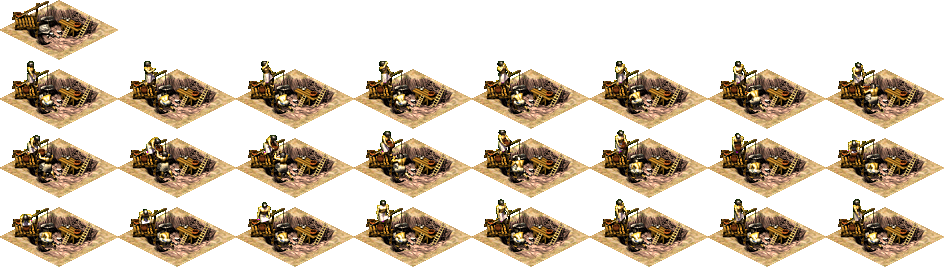
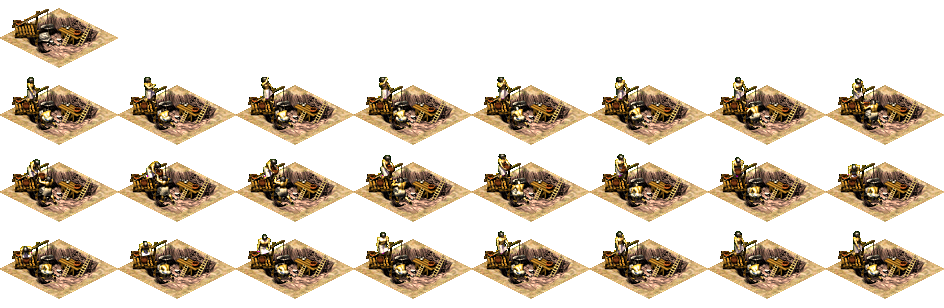
Work for the day -- resource buildings, farming buildings

Changed region(s): [[0.0, 0.2097, 1.0, 0.7491], [0.0, 0.7491, 1.0, 1.0], [0.0, 0.0, 0.1229, 0.1798]]

diff --git a/resourceBuild.js b/resourceBuild.js
@@ -1,14 +1,22 @@
-function resourceBuild(img, game, x, y, bWidth, bHeight) {
-    this.img = img;
+resSpeed = .10; 
+
+function resourceBuild(game, x, y, bWidth, bHeight) {
+    this.game = game;
+    this.img = null;
     this.bWidth = bWidth;
     this.bHeight = bHeight;
     this.openAnim = null;
     this.closedAnim = null;
     this.currAnim = null;
+    this.renderX = 0;
+    this.renderY = 0;
     this.numEmployed = 0;
     this.numEmpNeeded = null;
     this.placeCost = null;
-    this.storage = [];
+    this.resType = "";
+    this.prodTime = 0;
+    this.buffer = { x: x - 1, y: y - 1, width: bWidth + 1, height: bHeight + 1 };
+    this.roadTiles = [];
     Entity.call(this, game, x, y);
 }
 
@@ -16,8 +24,69 @@ resourceBuild.prototype = new Entity();
 resourceBuild.prototype.constructor = resourceBuild;
 
 resourceBuild.prototype.update = function () {
- /*detect that someone has come by. Determine
-    purchasing/taking or storage/retrieval.
-    may not even require that? update storage counts and remove money as needed.
-    */
+    this.roadTiles = findRoad(this.buffer);
+
+    if (this.numEmployed < this.numEmpNeeded) {
+        this.currAnim = this.closedAnim;
+
+    } else {
+        this.currAnim = this.openAnim;
+        if (this.game.timer.gameTime - this.workTime >= this.prodTime) {
+            this.workTime = this.game.timer.gameTime;
+            //Generate a walker to deliver the resource accordingly.
+        }
+    }
+    Entity.prototype.update.call(this);
 }
+
+resourceBuild.prototype.draw = function (ctx) {
+    pt1 = this.game.twodtoisoX(this.x, this.y) - this.renderX;
+    pt2 = this.game.twodtoisoY(this.x, this.y) - this.renderY;
+    ctx.fillRect(pt1, pt2, 5, 5);
+    this.currAnim.drawFrame(this.game.clockTick, ctx, pt1, pt2);
+    Entity.prototype.draw.call(this);
+} 
+
+function goldMine(game, x, y, bWidth, bHeight) {
+    resourceBuild.call(this, game, x, y, bWidth, bHeight);
+    this.img = ASSET_MANAGER.getAsset('./img/GoldMine.png');
+    this.workTime = game.timer.gameTime;
+    this.closedAnim = new Animation(this.img, 0, 0, 118, 63, 1, resSpeed, 1, true);
+    this.openAnim = new Animation(this.img, 0, 1, 118, 63, 9, resSpeed, 17, true);
+    this.currAnim = this.closedAnim;
+    this.resType = "gold";
+    this.prodTime = 30;
+    this.numEmpNeeded = 16;
+    this.renderX = 25;
+    this.renderY = 5;
+    this.placeCost = 75;
+    //FORTESTING
+    this.numEmployed = 16;
+
+}
+
+goldMine.prototype = new resourceBuild();
+goldMine.prototype.constructor = goldMine;
+
+function clayPit(game, x, y, bWidth, bHeight){
+    resourceBuild.call(this, game, x, y, bWidth, bHeight);
+    this.img = ASSET_MANAGER.getAsset('./img/ClayThingy.png');
+    this.workTime = game.timer.gameTime;
+    this.closedAnim = new Animation(this.img, 0, 0, 118, 77, 1, resSpeed, 1, true);
+    this.openAnim = new Animation(this.img, 0, 1, 118, 77, 8, resSpeed, 24, true);
+    this.currAnim = this.closedAnim;
+    this.resType = "clay";
+    this.prodTime = 20;
+    this.numEmpNeeded = 14;
+    this.renderX = 29;
+    this.renderY = 9;
+    this.placeCost = 20;
+    //FOR TESTING
+    this.numEmployed = 14;
+
+}
+
+clayPit.prototype = new resourceBuild();
+clayPit.prototype.constructor = clayPit;
+
+//Possibly Hunting Lodge? Extend the update behavior to deal with returning hunters. 

diff --git a/farming.js b/farming.js
@@ -26,11 +26,12 @@ function farming(img, game, x, y) {
 
 }
 
-farming.prototype = new Entity();
+farming.prototype = Object.create(Entity.prototype);
 farming.prototype.constructor = farming;
 
 farming.prototype.update = function () {
     this.roadTiles = findRoad(this.buffer);
+
     this.growTime += this.game.clockTick;
     harvestCheck = Math.floor(this.game.timer.gameTime) % this.harvestTime;
 
@@ -56,9 +57,9 @@ farming.prototype.draw = function (ctx) {
     this.animHarvest.drawFrame(this.game.clockTick, ctx, pt1, pt2);
     Entity.prototype.draw.call(this);
 }
-var found = [];
-farming.prototype.genWalker = function () {
 
+farming.prototype.genWalker = function () {
+    found = [];
     //for each granary building on the map, if there is one:
     for (let i = 0; i < this.game.industries.length; i++) { // just a test
         //check Granary has capacity to cut down a bit on calculations 
@@ -72,7 +73,7 @@ farming.prototype.genWalker = function () {
                         return false;
                     } else {
                         //console.log("gen walkers: path");
-                        found.push([that.roadTiles[j][0], that.roadTiles[j][1], indie.roadTiles[k][0], indie.roadTiles[k][1]]);
+                        found = [that.roadTiles[j][0], that.roadTiles[j][1], indie.roadTiles[k][0], indie.roadTiles[k][1]];
                         return true;
                     }
 
@@ -81,16 +82,21 @@ farming.prototype.genWalker = function () {
             }
         }
     }
-    //if (found.length > 0) {
-    //    var gcm = new grCartMan(this.game, ASSET_MANAGER.getAsset('./img/grainCartMan.png'), walkerMap, found[0][0], found[0][1]);
-    //    gcm.destX = found[0][2];
-    //    gcm.destY = found[0][3];
-    //    this.game.addWalker(gcm);
+    if (found.length > 0) {
+        //var gcm = new grCartMan(this.game, ASSET_MANAGER.getAsset('./img/grainCartMan.png'), walkerMap, found[0][0], found[0][1]);
+        //gcm.destX = found[0][2];
+        //gcm.destY = found[0][3];
+        //var gcm = new grCartMan(this.game, ASSET_MANAGER.getAsset('./img/grainCartMan.png'), walkerMap, 10, 9);
+        //gcm.destX = 2;
+        //gcm.destY = 2;
+        //this.game.addWalker(gcm);
+        //console.log(gcm);
+        //this.game.addWalker(gcm);
 
-    //} else {
-    //    console.log("No path to that buildin'")
-    //}
-    
+    } else {
+        console.log("No path to that buildin'")
+    }
+    console.log(found);
 }
 
 
@@ -102,7 +108,7 @@ function grainFarm(img, game, x, y) {
 
 }
 
-grainFarm.prototype = new farming();
+grainFarm.prototype = Object.create(farming.prototype);
 grainFarm.prototype.constructor = grainFarm;
 
 function barFarm(img, game, x, y) {

diff --git a/buildings.js b/buildings.js
@@ -114,23 +114,23 @@ Firehouse.prototype.draw = function (ctx) {
     Entity.prototype.draw.call(this);
 }
 
-function Goldmine(game, img) {
-    this.animation = new Animation(img, 0, 1, 118, 63, 17, .15, 9, true);
-    Entity.call(this, game, 0, 110);
+//function Goldmine(game, img) {
+//    this.animation = new Animation(img, 0, 1, 118, 63, 17, .15, 9, true);
+//    Entity.call(this, game, 0, 110);
 
-}
+//}
 
-Goldmine.prototype = new Entity();
-Goldmine.prototype.constructor = Goldmine;
+//Goldmine.prototype = new Entity();
+//Goldmine.prototype.constructor = Goldmine;
 
-Goldmine.prototype.update = function () {
-    Entity.prototype.update.call(this);
-}
+//Goldmine.prototype.update = function () {
+//    Entity.prototype.update.call(this);
+//}
 
-Goldmine.prototype.draw = function (ctx) {
-    this.animation.drawFrame(this.game.clockTick, ctx, this.x, this.y);
-    Entity.prototype.draw.call(this);
-}
+//Goldmine.prototype.draw = function (ctx) {
+//    this.animation.drawFrame(this.game.clockTick, ctx, this.x, this.y);
+//    Entity.prototype.draw.call(this);
+//}
 
 //function Housing(game, img, x = 150, y = 110) {
 //    this.animation = new Animation(img, 0, 0, 118, 97, 6, 1, 12, true);
@@ -206,23 +206,23 @@ Mansion.prototype.draw = function (ctx) {
 //    Entity.prototype.draw.call(this);
 //}
 
-function WorkCamp(game, img) {
-    this.animation = new Animation(img, 0, 1, 118, 83, 10, 0.15, 20, true);
-    Entity.call(this, game, 0, 320);
+//function WorkCamp(game, img) {
+//    this.animation = new Animation(img, 0, 1, 118, 83, 10, 0.15, 20, true);
+//    Entity.call(this, game, 0, 320);
 
-}
+//}
 
-WorkCamp.prototype = new Entity();
-WorkCamp.prototype.constructor = WorkCamp;
+//WorkCamp.prototype = new Entity();
+//WorkCamp.prototype.constructor = WorkCamp;
 
-WorkCamp.prototype.update = function () {
-    Entity.prototype.update.call(this);
-}
+//WorkCamp.prototype.update = function () {
+//    Entity.prototype.update.call(this);
+//}
 
-WorkCamp.prototype.draw = function (ctx) {
-    this.animation.drawFrame(this.game.clockTick, ctx, this.x, this.y);
-    Entity.prototype.draw.call(this);
-}
+//WorkCamp.prototype.draw = function (ctx) {
+//    this.animation.drawFrame(this.game.clockTick, ctx, this.x, this.y);
+//    Entity.prototype.draw.call(this);
+//}
 
 function TaxHouse(game, img) {
     this.animation = new Animation(img, 0, 1, 118, 96, 8, 0.15, 8, true);

diff --git a/main.js b/main.js
@@ -159,7 +159,7 @@ GameWorld.prototype.getWorkForce = function () {
 // the "main" code begins here
 
 var ASSET_MANAGER = new AssetManager();
-var walkerMap = new mapData().testMap
+var walkerMap = new mapData().testMap;
 
 ASSET_MANAGER.queueDownload("./img/Weaver.png");
 ASSET_MANAGER.queueDownload("./img/grass.png");
@@ -196,6 +196,7 @@ ASSET_MANAGER.queueDownload("./img/Firedude2.png");
 ASSET_MANAGER.queueDownload("./img/Hunter1.5.png");
 ASSET_MANAGER.queueDownload("./img/Hunter2.png");
 ASSET_MANAGER.queueDownload("./img/immig.png");
+ASSET_MANAGER.queueDownload("./img/ClayThingy.png");
 
 //TODO: add in imgs for fixed walkers
 
@@ -248,13 +249,18 @@ ASSET_MANAGER.downloadAll(function () {
     var gF = new grainFarm(ASSET_MANAGER.getAsset("./img/FarmPlots.png"), gameEngine, 10, 7);
     gameEngine.addEntity(gF);
 
-    var weaver = new Weaver(ASSET_MANAGER.getAsset("./img/Weaver.png"), gameEngine, 3, 11, 2, 2);
-    //gameEngine.addIndustry(weaver);
+    //var weaver = new Weaver(ASSET_MANAGER.getAsset("./img/Weaver.png"), gameEngine, 3, 11, 2, 2);
+    ////gameEngine.addIndustry(weaver);
 
     var brewery = new Brewery(ASSET_MANAGER.getAsset("./img/Brewery.png"), gameEngine, 3, 2, 2, 2);
     gameEngine.addIndustry(brewery);
 
-    var potter = new Potter(ASSET_MANAGER.getAsset("./img/Potter.png"), gameEngine, 14, 11, 2, 2);
-    //gameEngine.addIndustry(potter);
+    //var potter = new Potter(ASSET_MANAGER.getAsset("./img/Potter.png"), gameEngine, 14, 11, 2, 2);
+    ////gameEngine.addIndustry(potter);
+
+    //var mine = new goldMine(gameEngine, 3, 2, 2, 2);
+    //var pit = new clayPit(gameEngine, 3, 2, 2, 2);
+    //gameEngine.addEntity(pit);
+
     gameEngine.start();
 });

diff --git a/index.html b/index.html
@@ -70,6 +70,7 @@
     <script type="text/javascript" src="./Walkers.js"></script>
     <script type="text/javascript" src="./industry.js"></script>
     <script type="text/javascript" src="./farming.js"></script>
+    <script type="text/javascript" src="./resourceBuild.js"></script>
 </body>
 <script>
     $(function(){
